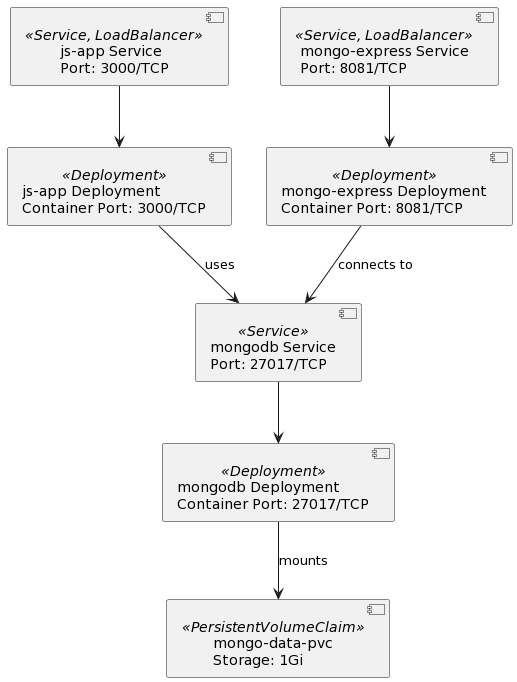
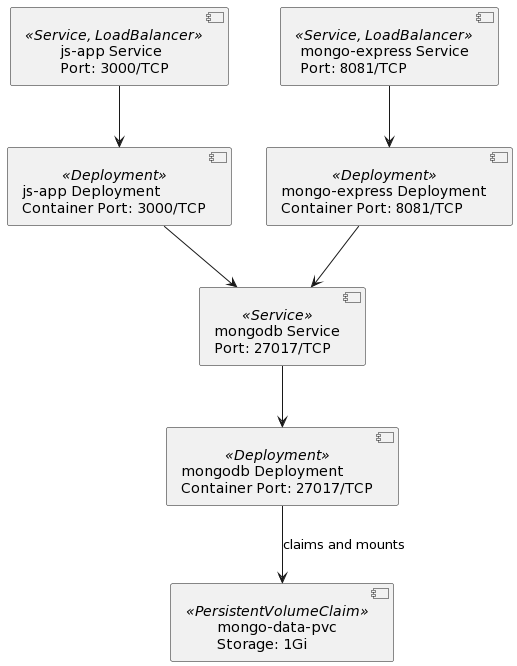
chore: opdateret uml diagram og readme

diff --git a/README.md b/README.md
@@ -10,5 +10,10 @@
 ### Start med docker-compose
 - `docker-compose up` eller detached med `docker-compose up -d`
 
+
 # Rough Kubernetes Diagram
 ![Diagram](kamstrup-demo-uml.png)
+
+# Kør på Kubernetes
+- Hvis på Minikube på docker, så husk `minikube start --kubernetes-version=v1.27.4 --vm-driver=docker`
+- Apply K8s manifest `kubectl apply -f k8s-manifest.yaml`
